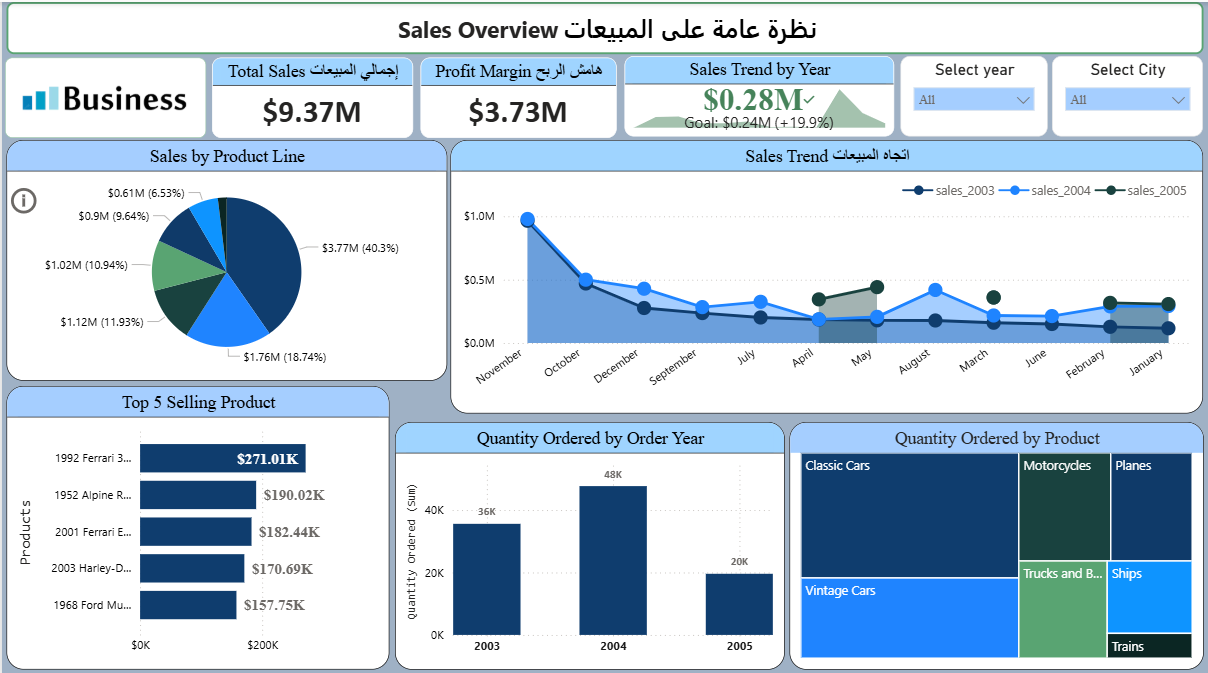
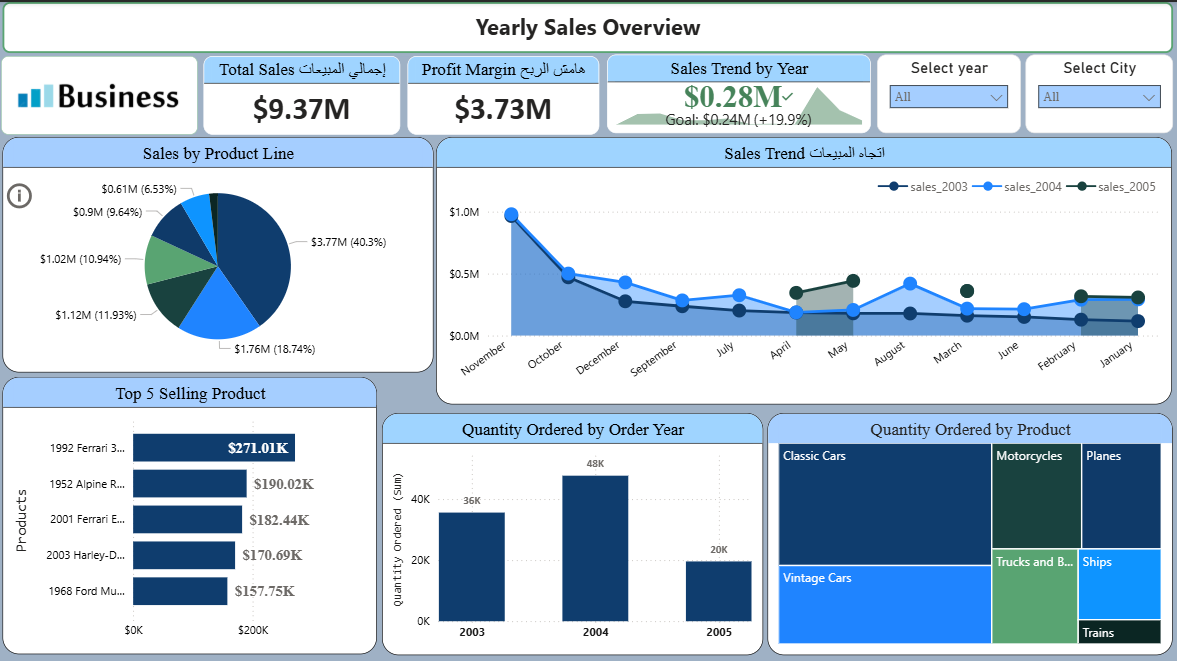
update project heading

diff --git a/index.html b/index.html
@@ -520,7 +520,7 @@
 			<!-- ================= Power BI & Excel Projects ================= -->
 			<div class="row mb-4 mt-5">
 				<div class="col-md-12 text-center">
-					<h3 class="category-heading">Power BI Projects</h3>
+					<h3 class="category-heading">Power BI & Excel Projects</h3>
 				</div>
 			</div>
 
@@ -528,7 +528,7 @@
 				<!-- Global Sales -->
 				<div class="col-md-6 d-flex ftco-animate">
 					<div class="blog-entry justify-content-end">
-						<a class="block-20 zoom-effect" style="background-image: url('images/ysa.png');">
+						<a class="block-20 zoom-effect" style="background-image: url('images/yearly-sales.png');">
 						</a>
 						<div class="mt-3">
 							<a href="https://mavenshowcase.com/project/31098" target="_blank"
@@ -601,7 +601,7 @@
 						</div>
 						<div class="text mt-3 float-right d-block">
 							<h3 class="heading">Retail Analytics Dashboard</h3>
-							<p><strong><em>Tools: Excel, PowerQuery</em></strong></p>
+							<p><strong><em>Tools: Advanced Excel, Macros, VBA</em></strong></p>
 							<p>The Retail Analytics Dashboard – Annual Business Review 2022 delivers a comprehensive
 								overview of customer orders, revenue trends, sales channels, and demographic
 								breakdowns.</p>
